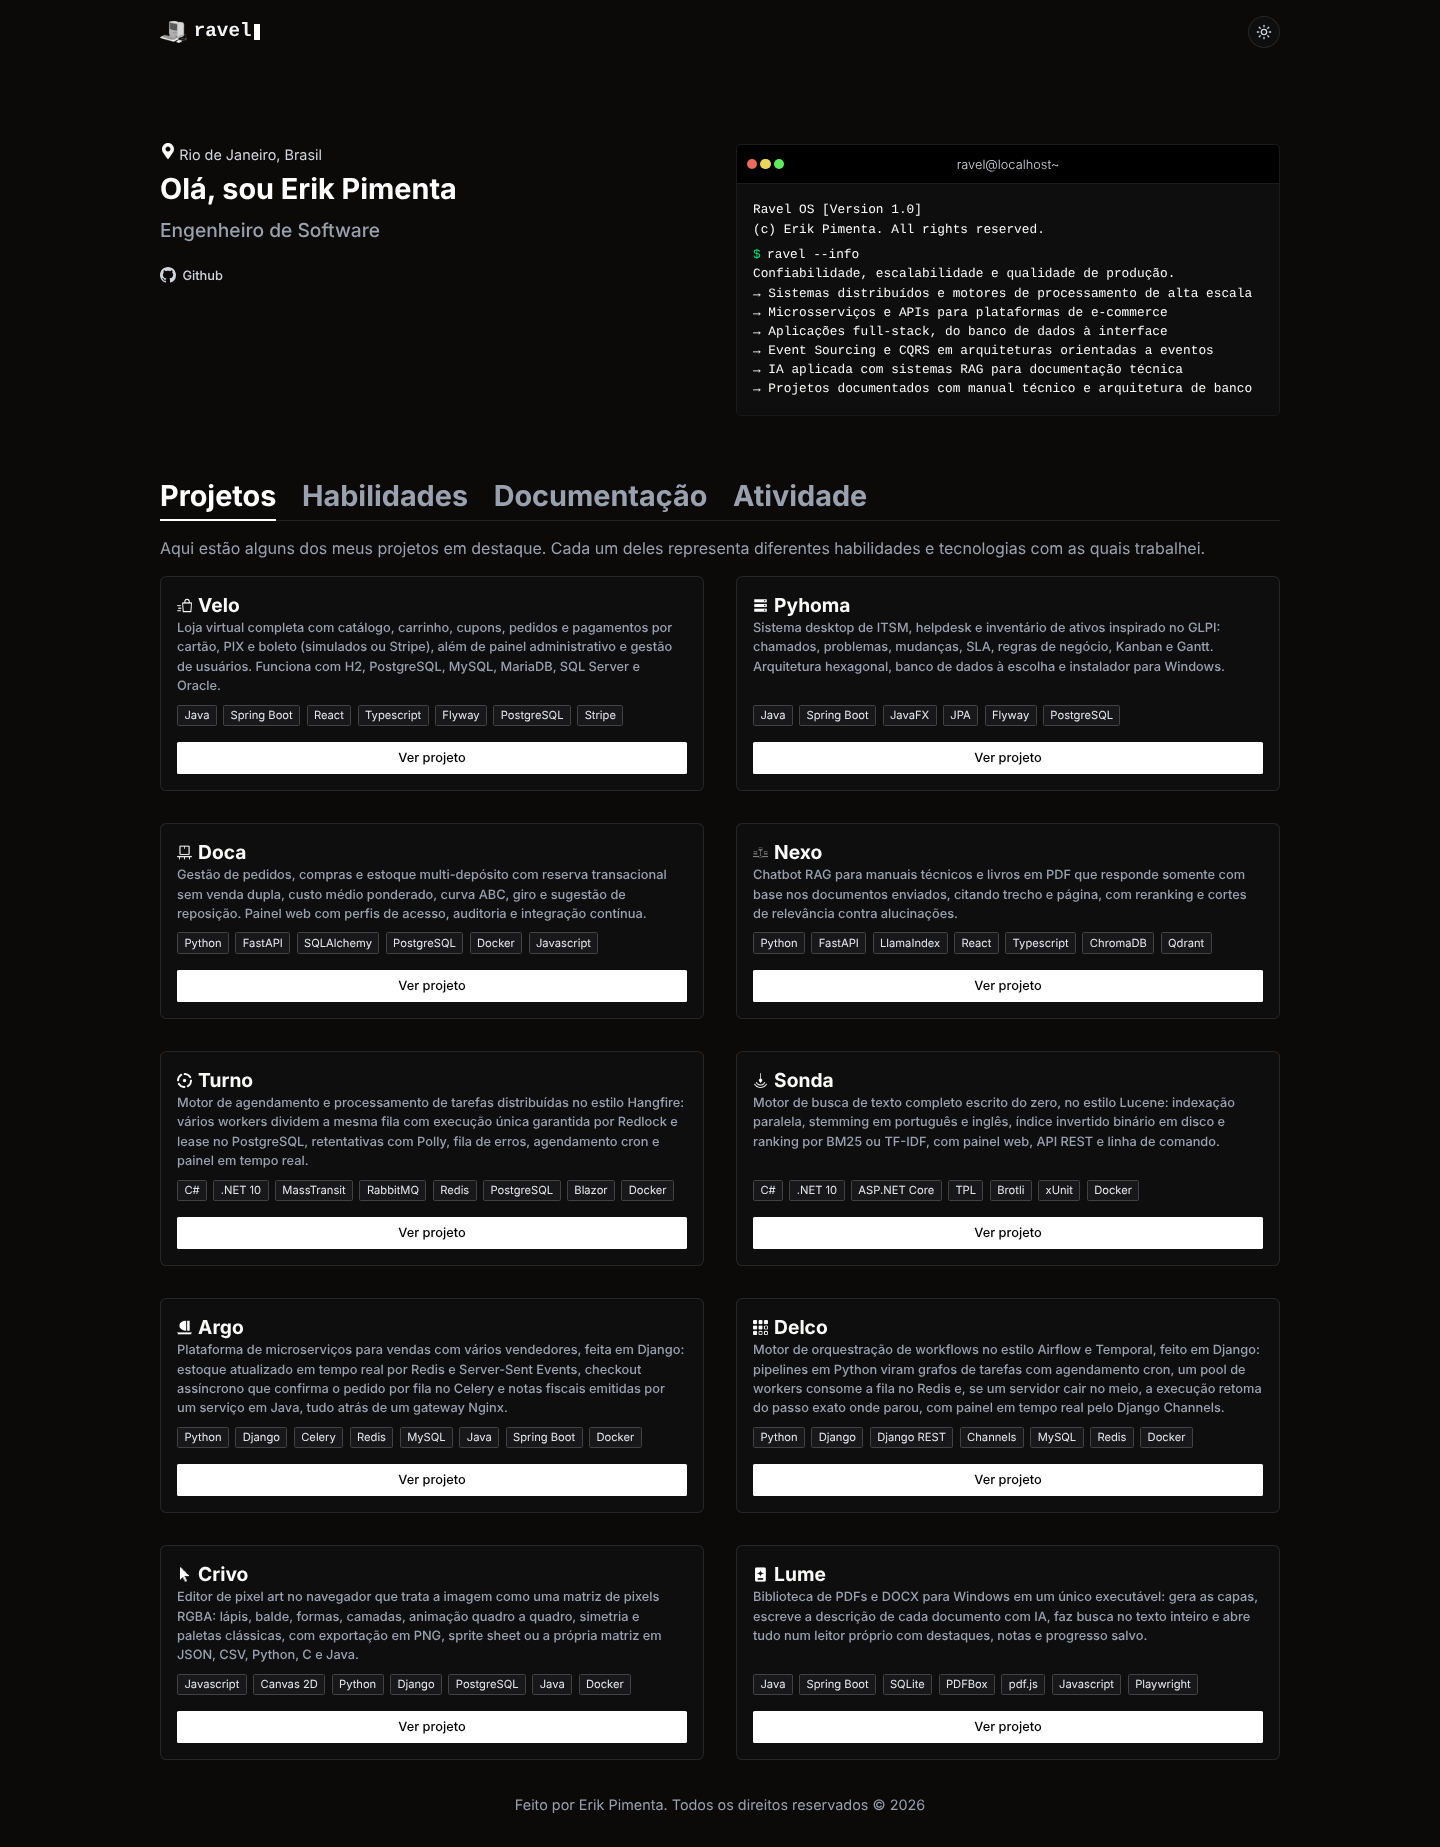
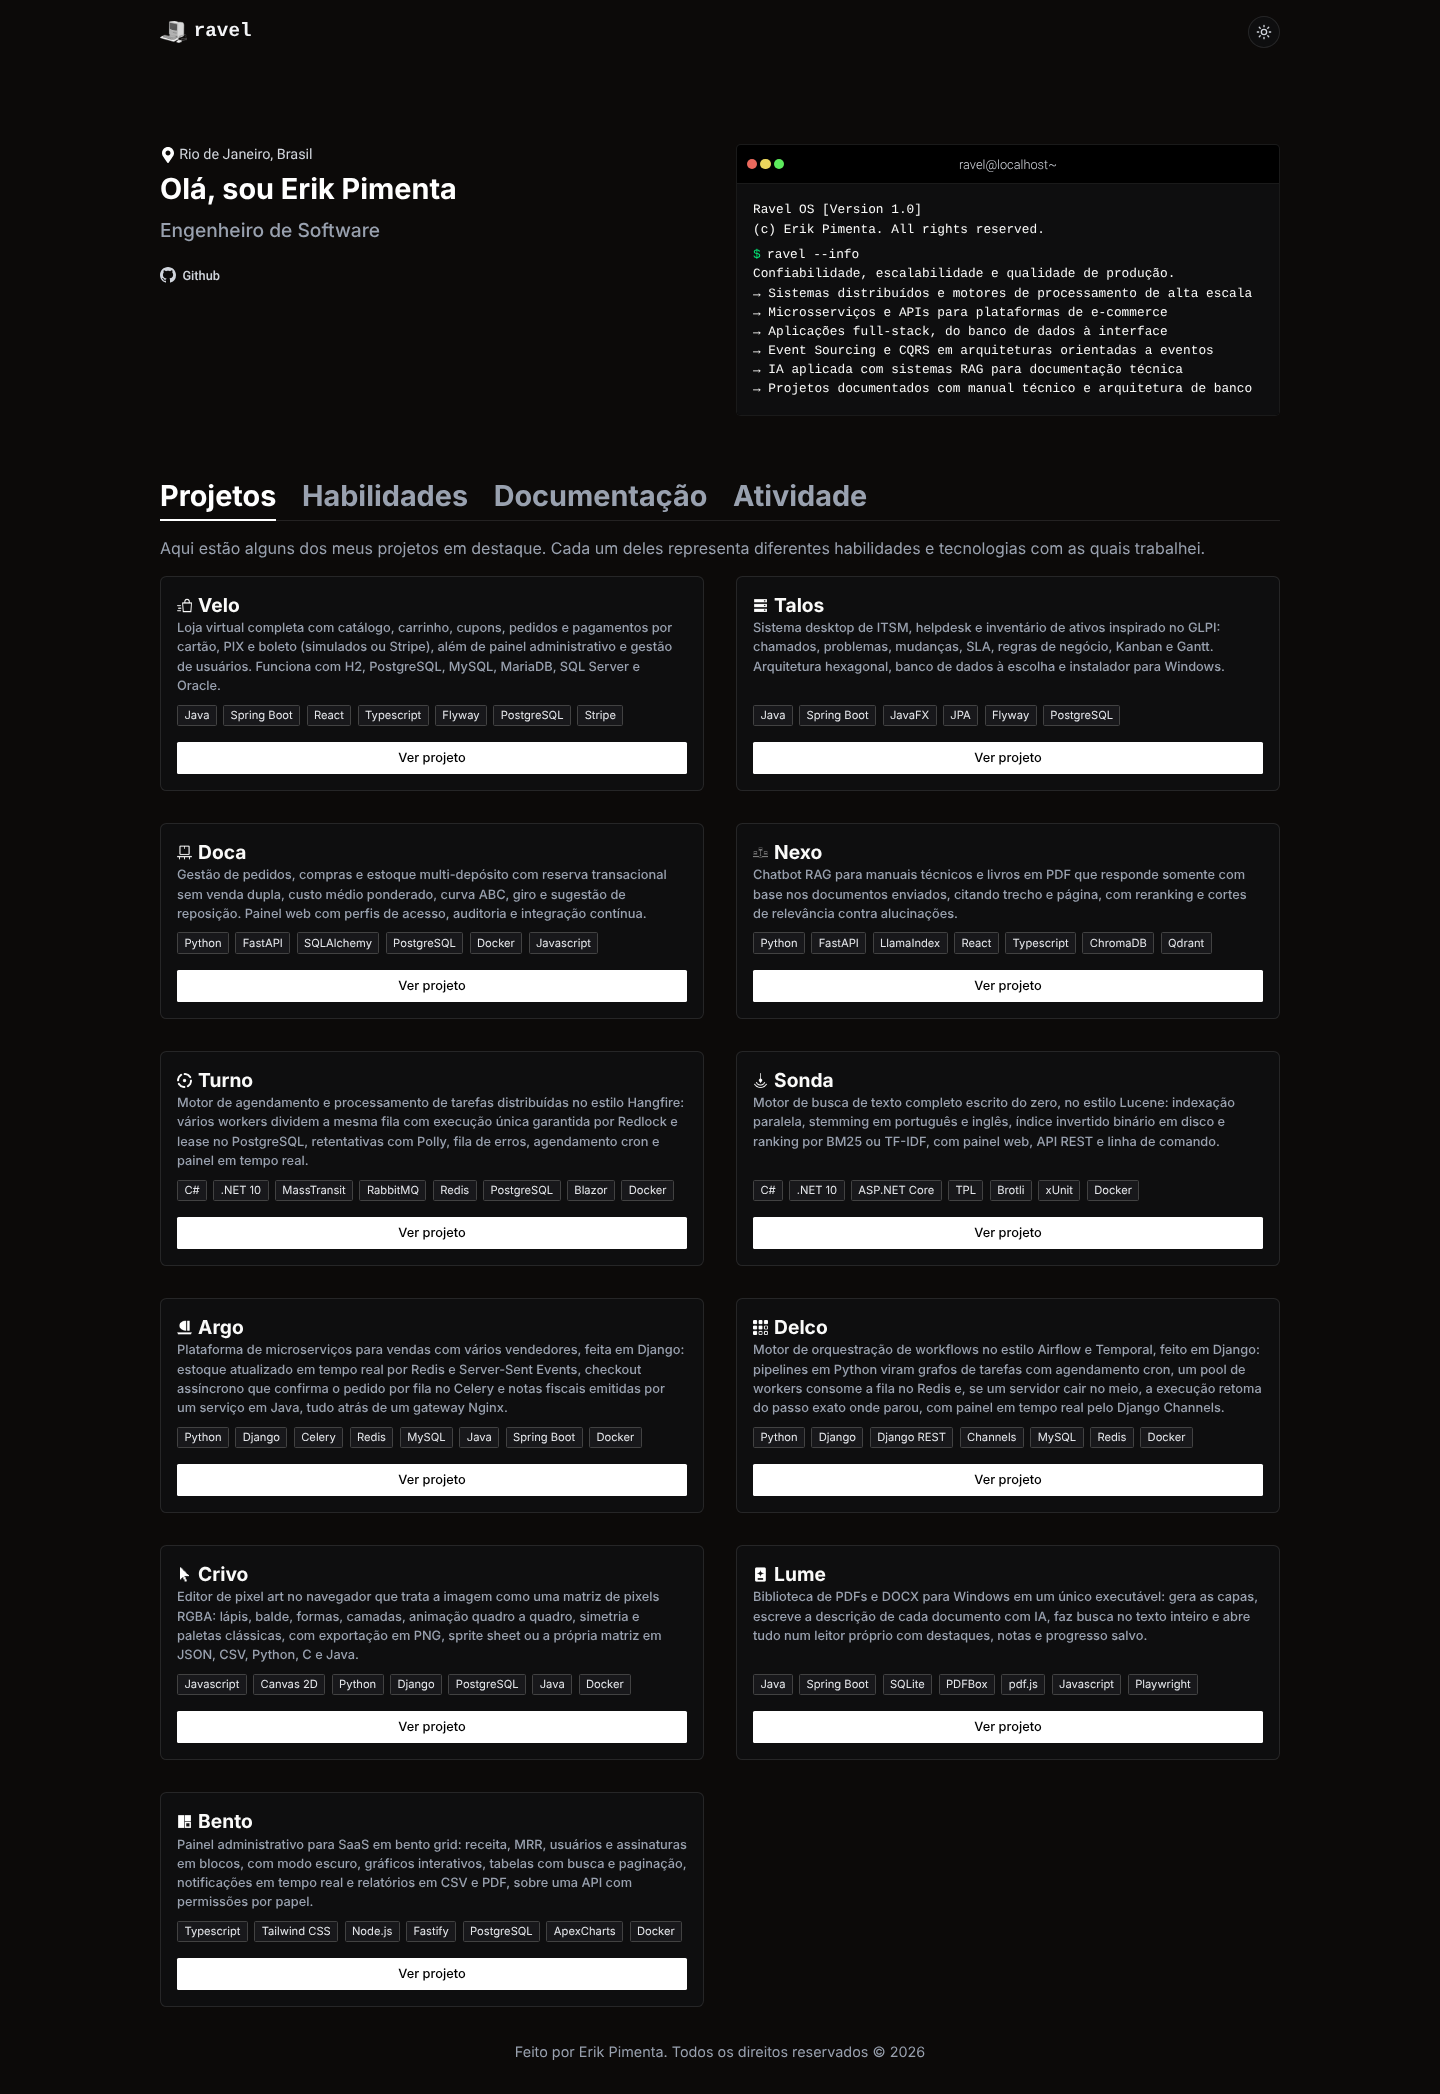
Atualiza Talos e inclui o Bento: icones, miniaturas e previas

diff --git a/index.html b/index.html
@@ -126,9 +126,9 @@
 		</footer>
 	</div>
 
-	<script src="js/projetos.js?v=11"></script>
+	<script src="js/projetos.js?v=13"></script>
 	<script src="js/habilidades.js?v=4"></script>
-	<script src="js/documentacao.js?v=1"></script>
+	<script src="js/documentacao.js?v=3"></script>
 	<script src="js/atividade.js?v=4"></script>
 	<script src="js/main.js?v=8"></script>
 </body>
